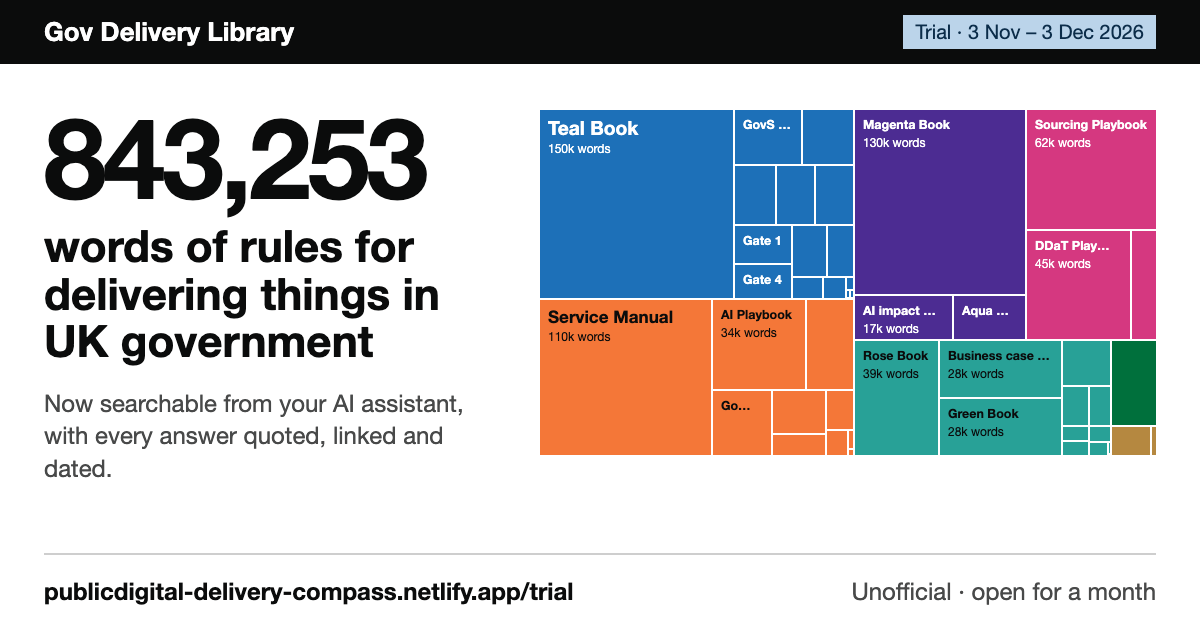
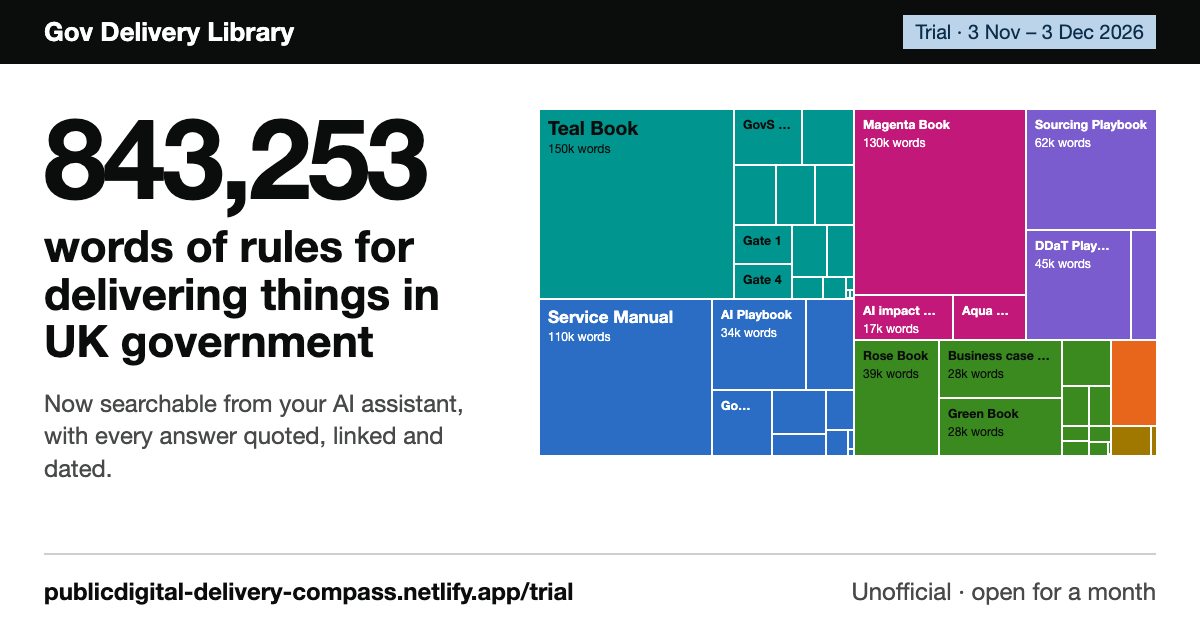
Trial page: colour each area after its book
Assurance takes Teal Book teal, funding Green Book green, evaluation Magenta
Book magenta, risk Orange Book orange. Areas reordered so neighbours stay
distinguishable; checked with the dataviz palette validator for colour-blind
and normal-vision separation. Labels take dark or white text, whichever
contrasts better.

Changed region(s): [[0.4317, 0.1515, 0.9867, 0.7273]]

diff --git a/trial/trial.js b/trial/trial.js
@@ -28,18 +28,19 @@
   if (!window.d3 || !window.SHELF) return;
   const DATA = window.SHELF;
 
+  // This order keeps neighbouring colours distinguishable (see trial.css); change both together.
   const SPINES = [
     ["assurance", "Assurance & project delivery"],
     ["digital", "Digital & technology"],
     ["funding", "Funding & business cases"],
-    ["evaluation", "Evaluation & analysis"],
     ["commercial", "Commercial"],
     ["risk", "Risk"],
+    ["evaluation", "Evaluation & analysis"],
     ["oversight", "Oversight & scrutiny"],
   ];
   const SPINE_NAME = Object.fromEntries(SPINES);
-  // Light fills that need dark text to meet contrast; the rest take white.
-  const DARK_INK = new Set(["digital", "funding", "oversight"]);
+  // Fills where dark text contrasts better than white; the rest take white.
+  const DARK_INK = new Set(["assurance", "funding", "risk", "oversight"]);
   const SHORT = {
     "teal-book": "Teal Book", "magenta-book": "Magenta Book", "service-manual": "Service Manual",
     "sourcing-playbook": "Sourcing Playbook", "ddat-playbook": "DDaT Playbook", "rose-book": "Rose Book",

diff --git a/trial/trial.css b/trial/trial.css
@@ -10,13 +10,17 @@
   --surface: #ffffff;
   --accent: #1d70b8;
   --alarm: #ca3535;
-  --sp-assurance: #1d70b8;
-  --sp-digital: #f47738;
-  --sp-funding: #28a197;
-  --sp-evaluation: #4c2c92;
-  --sp-commercial: #d53880;
-  --sp-risk: #00703c;
-  --sp-oversight: #b58840;
+  /* Each area takes the colour of its namesake book where it has one: assurance the
+     Teal Book, funding the Green Book, evaluation the Magenta Book, risk the Orange
+     Book. Steps and order (see SPINES in trial.js) pass the dataviz palette checks
+     for colour-blind and normal-vision separation on white. */
+  --sp-assurance: #00968f;
+  --sp-digital: #2b6cc4;
+  --sp-funding: #3a8a1f;
+  --sp-commercial: #7b5ccf;
+  --sp-risk: #e8661c;
+  --sp-evaluation: #c2187a;
+  --sp-oversight: #a07800;
   --st-1: #003078;
   --st-2: #1d70b8;
   --st-3: #5694ca;
